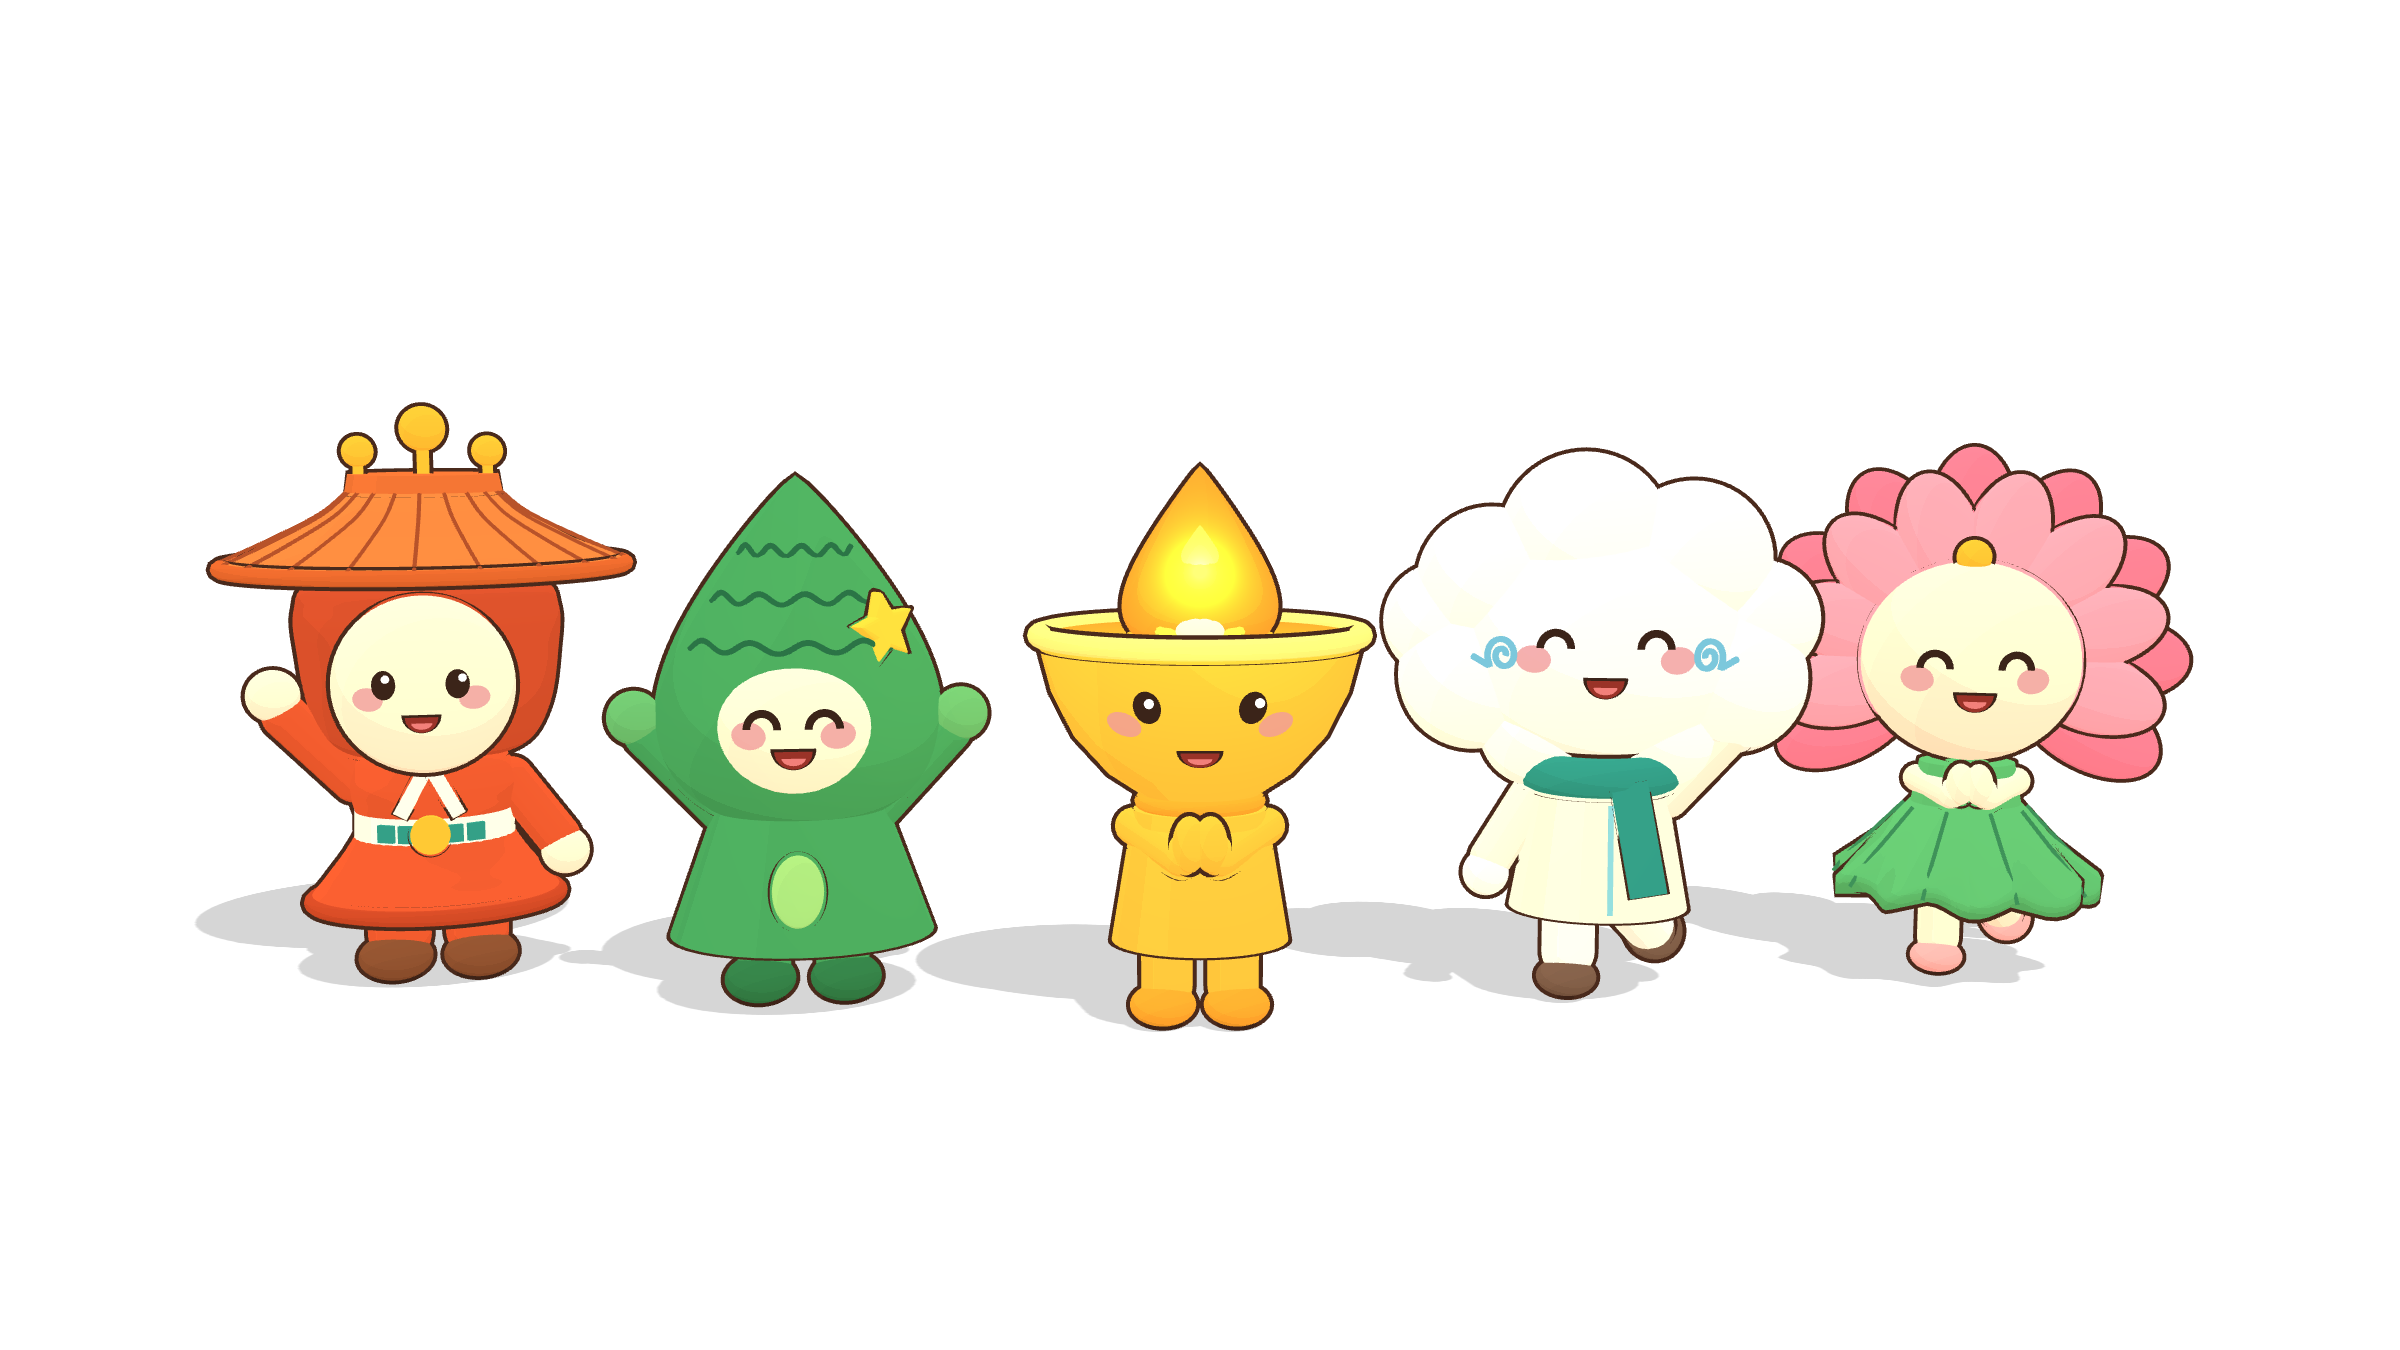
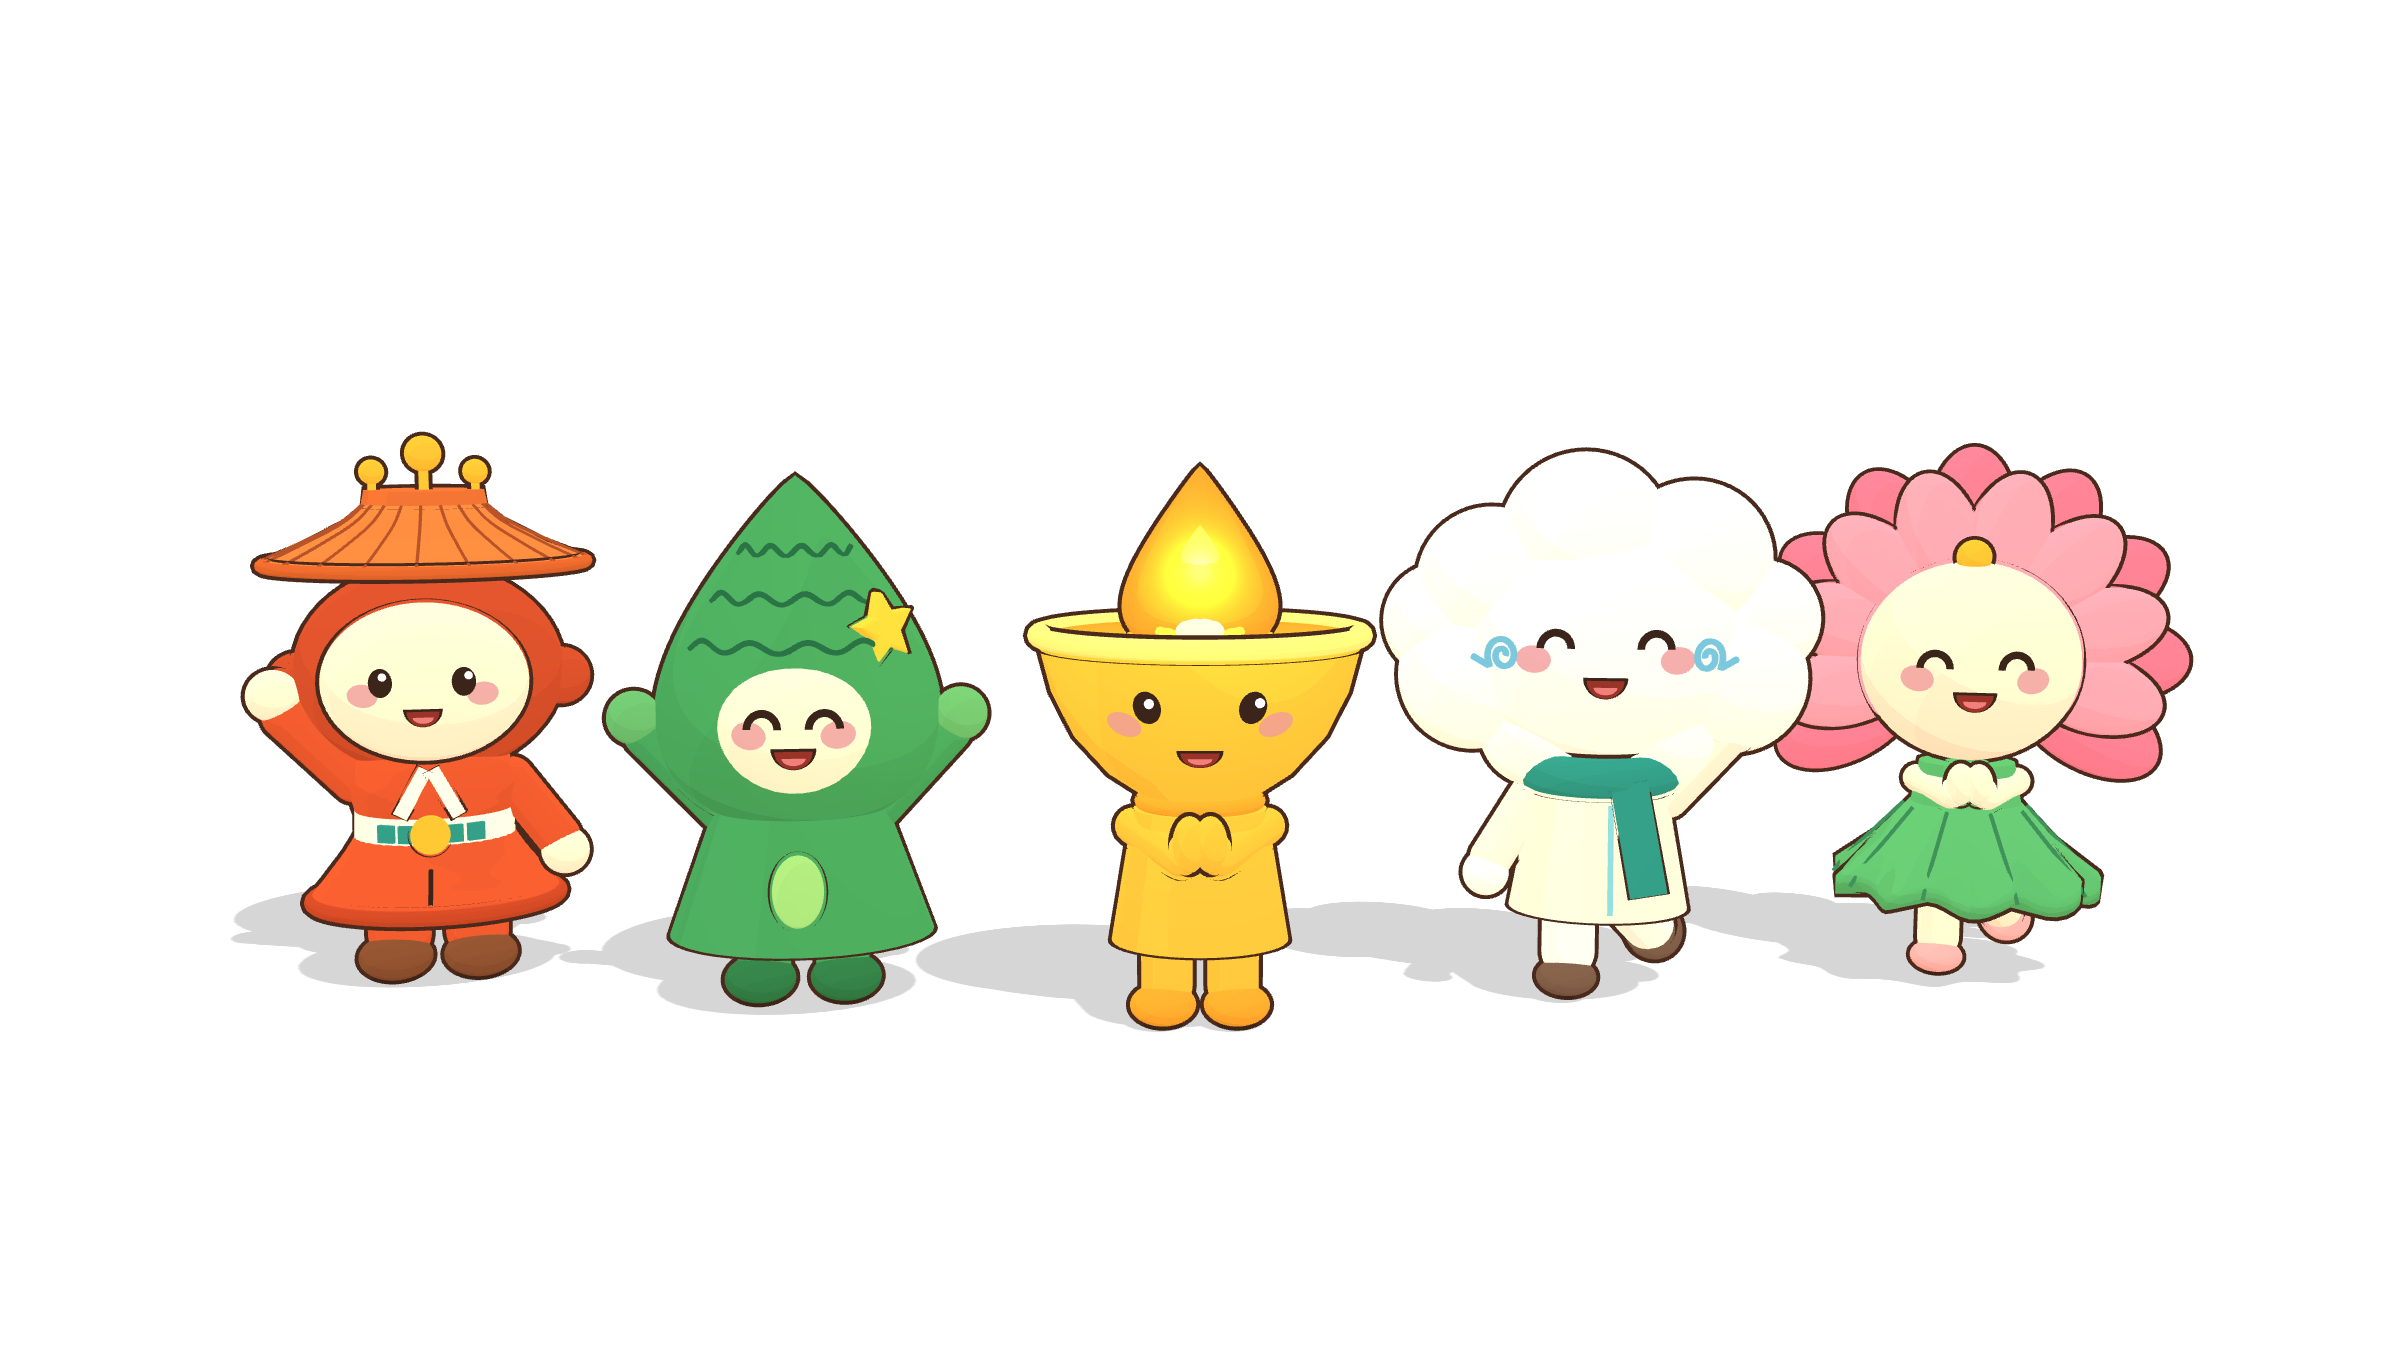
全全 3D 套用確認版 2D 造型：橢圓頭罩與臉、圓耳朵、帽子縮小、下擺開衩示意

Changed region(s): [[0.0625, 0.28, 0.2812, 0.5911], [0.0625, 0.6533, 0.125, 0.6844]]

diff --git a/mascots3d.js b/mascots3d.js
@@ -191,32 +191,46 @@ function quanquan() {
   limb(g, [0.44, 1.14, 0], [0.7, 0.8, 0.1], 0.13, RED);
   part(S(0.14), FACE, { parent: g, pos: [0.74, 0.72, 0.12] });
 
-  // 頭：紅色頭罩，下緣往內收圓接身體，上半部保持寬（頭頂寬寬的戴屋頂）
-  const hoodCurve = new THREE.SplineCurve([[0, 0.04], [0.34, 0.0], [0.56, 0.08], [0.68, 0.3], [0.73, 0.6], [0.74, 0.86], [0.62, 1.02], [0, 1.08]].map(([x, y]) => V2(x, y)));
-  part(new THREE.LatheGeometry(hoodCurve.getPoints(48), 64), HOOD, { parent: g, pos: [0, 1.3, 0], scale: [1, 1, 0.8] });
-  // 臉：正圓、整個露在頭罩前方（不被頭罩切成面具形），厚度壓扁避免像口鼻
-  const fc = [0, 1.78, 0.62], fr = [0.5, 0.5, 0.3];
+  // 頭罩：跟臉一樣是橫向橢圓，四周一圈均勻紅邊
+  const HC = 1.8;
+  part(S(1), HOOD, { parent: g, pos: [0, HC, 0], scale: [0.76, 0.62, 0.6] });
+  // 兩個圓圓的耳朵（頭罩同色，藏在兩側後面）
+  for (const s of [-1, 1]) part(S(0.17), HOOD, { parent: g, pos: [s * 0.74, HC - 0.06, -0.06] });
+  // 臉：橫向橢圓，整個露在頭罩前方
+  const fc = [0, HC - 0.02, 0.48], fr = [0.57, 0.45, 0.3];
   part(S(1), FACE, { parent: g, pos: fc, scale: fr });
   face(g, ellipsoidSurf(fc, fr), { eyes: 'open', size: 0.88, spread: 0.4, eyeY: 0.06, mouthY: -0.3, blushOut: 0.2, blushY: -0.16 });
 
-  // 琉璃屋頂
+  // 下擺開衩示意：前面中間一條短線
+  const slit = [];
+  for (let i = 0; i <= 10; i++) {
+    const y = 0.53 + i * 0.018;
+    slit.push(V3(0, y, bodyR(y) + 0.012));
+  }
+  g.add(new THREE.Mesh(new THREE.TubeGeometry(new THREE.CatmullRomCurve3(slit), 20, 0.013, 6), flat(INK)));
+
+  // 琉璃屋頂（整頂縮到 80%，底部貼在頭頂）
+  const hat = new THREE.Group();
+  hat.scale.setScalar(0.8);
+  hat.position.y = (HC + 0.6) - 0.8 * 2.38;
+  g.add(hat);
   const roofPts = [[0, 0], [1.12, 0], [1.14, 0.05], [0.85, 0.17], [0.55, 0.33], [0.4, 0.46], [0, 0.48]];
-  part(lathe(roofPts), ROOF, { parent: g, pos: [0, 2.38, 0] });
+  part(lathe(roofPts), ROOF, { parent: hat, pos: [0, 2.38, 0] });
   const ridgeMat = flat('#b8532a');
   for (let k = 0; k < 20; k++) {
     const a = (k / 20) * Math.PI * 2;
     const pts = [[1.12, 0.06], [0.85, 0.185], [0.55, 0.345], [0.41, 0.47]]
       .map(([r, y]) => V3(Math.sin(a) * r * 1.012, 2.38 + y + 0.004, Math.cos(a) * r * 1.012));
     const tube = new THREE.Mesh(new THREE.TubeGeometry(new THREE.CatmullRomCurve3(pts), 16, 0.011, 6), ridgeMat);
-    g.add(tube);
+    hat.add(tube);
   }
-  part(new THREE.TorusGeometry(1.13, 0.045, 10, 72), '#c85f2c', { parent: g, pos: [0, 2.41, 0], rot: [Math.PI / 2, 0, 0] });
-  part(cyl(0.42, 0.44, 0.1), '#d06a33', { parent: g, pos: [0, 2.89, 0] });
-  part(cyl(0.035, 0.035, 0.24), GOLD, { parent: g, pos: [0, 3.04, 0] });
-  part(S(0.13), GOLD, { parent: g, pos: [0, 3.2, 0] });
+  part(new THREE.TorusGeometry(1.13, 0.045, 10, 72), '#c85f2c', { parent: hat, pos: [0, 2.41, 0], rot: [Math.PI / 2, 0, 0] });
+  part(cyl(0.42, 0.44, 0.1), '#d06a33', { parent: hat, pos: [0, 2.89, 0] });
+  part(cyl(0.035, 0.035, 0.24), GOLD, { parent: hat, pos: [0, 3.04, 0] });
+  part(S(0.13), GOLD, { parent: hat, pos: [0, 3.2, 0] });
   for (const s of [-1, 1]) {
-    part(cyl(0.03, 0.03, 0.12), GOLD, { parent: g, pos: [s * 0.36, 2.98, 0] });
-    part(S(0.09), GOLD, { parent: g, pos: [s * 0.36, 3.07, 0] });
+    part(cyl(0.03, 0.03, 0.12), GOLD, { parent: hat, pos: [s * 0.36, 2.98, 0] });
+    part(S(0.09), GOLD, { parent: hat, pos: [s * 0.36, 3.07, 0] });
   }
   return g;
 }
